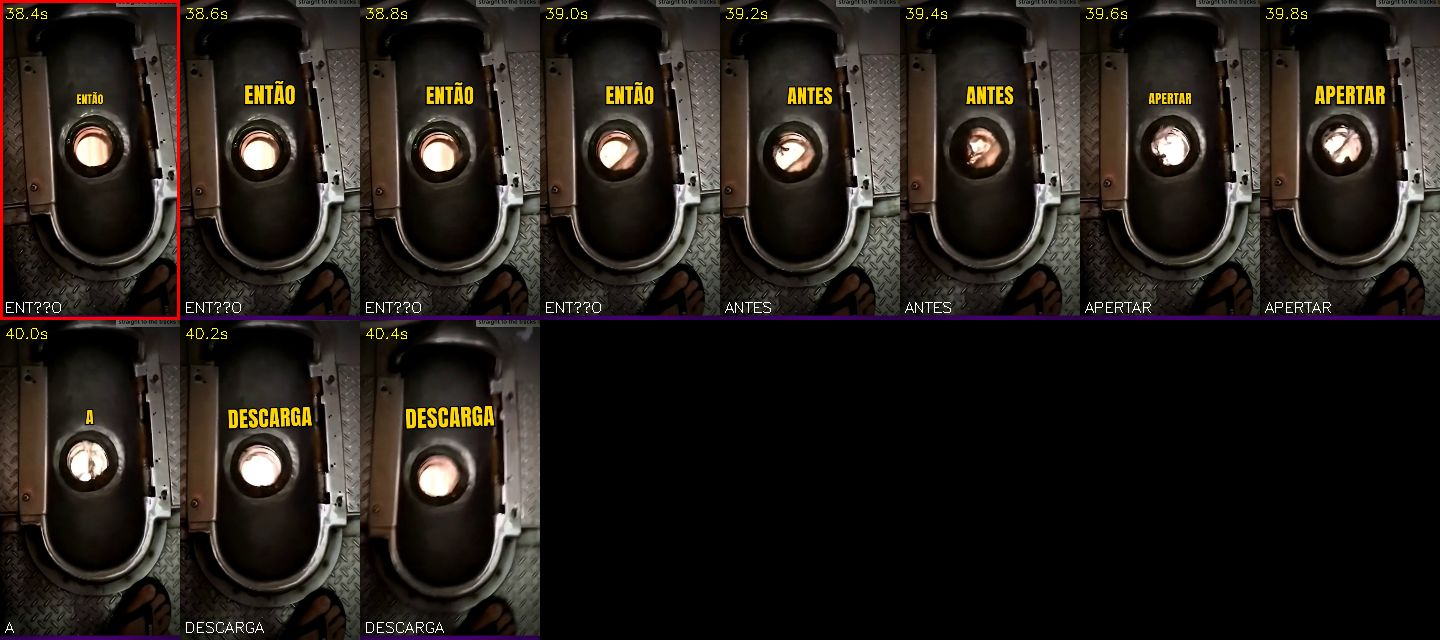
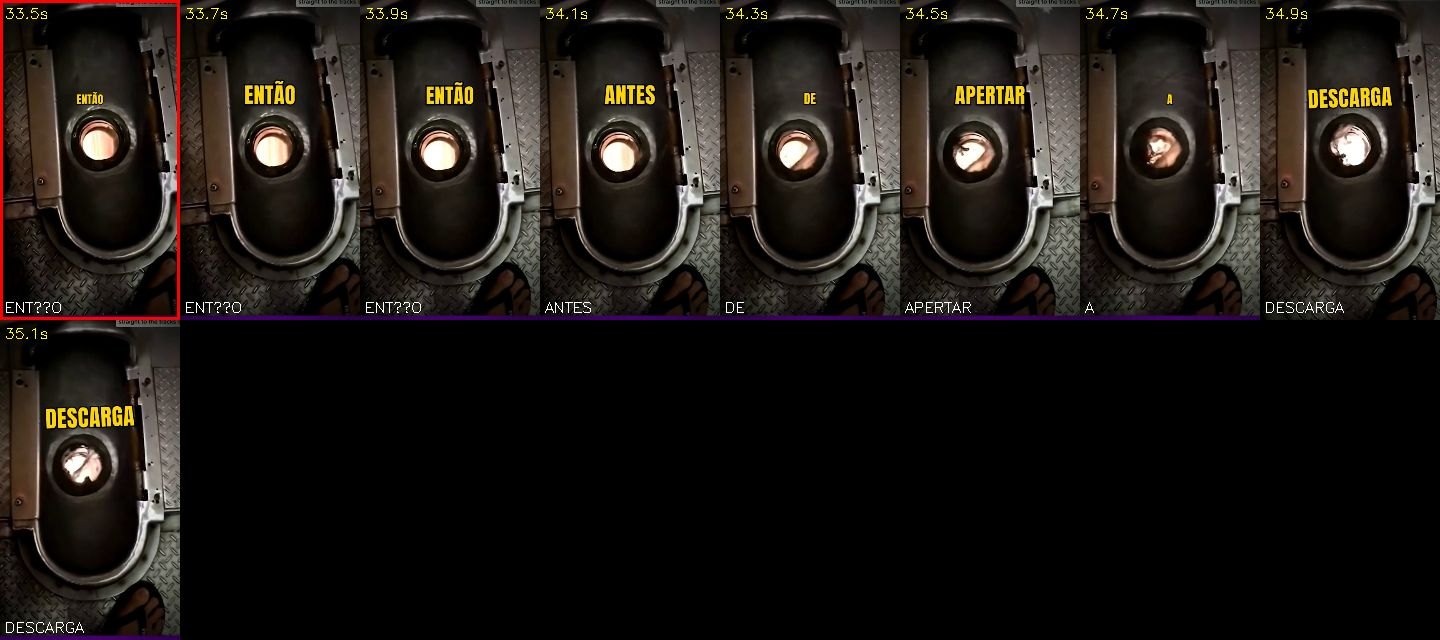
vd016 v2: 3D mais perto e legível
Claude-Session: https://claude.ai/code/session_01Pz7vxCjdPfCnR3b978TXUQ

diff --git a/remotion/src/animacoes/BanheiroTrem3D.tsx b/remotion/src/animacoes/BanheiroTrem3D.tsx
@@ -29,9 +29,9 @@ export const BanheiroTrem3D: React.FC<{fase: string; dur: number; eventos: Recor
   const k = interpolate(f, [0, dur], [0, 1], suave);
   // vistas (fase): troca de câmera a cada ≤ 3,5 s dentro do bloco 3D (montagem R9) — "lado" = corte inteiro,
   // "perto" = vaso → cano → tanque de perto (a água e o tanque enchendo)
-  const cam: [number, number, number] = perto ? [interpolate(k, [0, 1], [-0.2, 1.4]), 0.5, interpolate(k, [0, 1], [5.2, 4.6])]
-    : [0.7, 0.4, interpolate(k, [0, 1], [10.6, 10.0])];
-  const alvo: [number, number, number] = perto ? [interpolate(k, [0, 1], [-0.3, 1.5]), 0.1, 0] : [0.7, 0.0, 0];
+  const cam: [number, number, number] = perto ? [interpolate(k, [0, 1], [-0.3, 1.4]), 0.25, interpolate(k, [0, 1], [5.4, 4.8])]
+    : [0.55, 0.3, interpolate(k, [0, 1], [8.4, 7.8])];
+  const alvo: [number, number, number] = perto ? [interpolate(k, [0, 1], [-0.4, 1.5]), -0.15, 0] : [0.55, -0.05, 0];
 
   const bolinhas = useMemo(() => Array.from({length: 40}, (_, i) => ({fase: random(`b${i}`), dx: (random(`x${i}`) - 0.5) * 0.4})), []);
 
@@ -40,12 +40,12 @@ export const BanheiroTrem3D: React.FC<{fase: string; dur: number; eventos: Recor
       <Camera pos={cam} alvo={alvo} />
       <Liberar pronto={pronto} h={h} />
       <Ambiente tex={tex.ceu_nuvens_hdri} fundo={false} forca={0.7} />
-      <color attach="background" args={['#cfd8e3']} />
+      <color attach="background" args={['#1d2630']} />
       <hemisphereLight args={['#ffffff', '#333333', 0.8]} />
       <directionalLight position={[3, 5, 6]} intensity={1.6} />
 
       {/* vagão em corte: paredes, piso */}
-      <mesh position={[0, 2.2, -0.6]}><boxGeometry args={[6, 3.4, 0.1]} /><meshStandardMaterial color="#e9e4da" roughness={0.9} /></mesh>
+      <mesh position={[0, 2.2, -0.6]}><boxGeometry args={[6, 3.4, 0.1]} /><meshStandardMaterial color="#d8d2c6" roughness={0.9} /></mesh>
       <mesh position={[0, 0.45, 0]}><boxGeometry args={[6, 0.18, 1.4]} /><meshStandardMaterial color="#5d646b" metalness={0.5} roughness={0.5} /></mesh>
       {/* vaso sanitário */}
       <group position={[-0.6, 1.0, 0]}>
